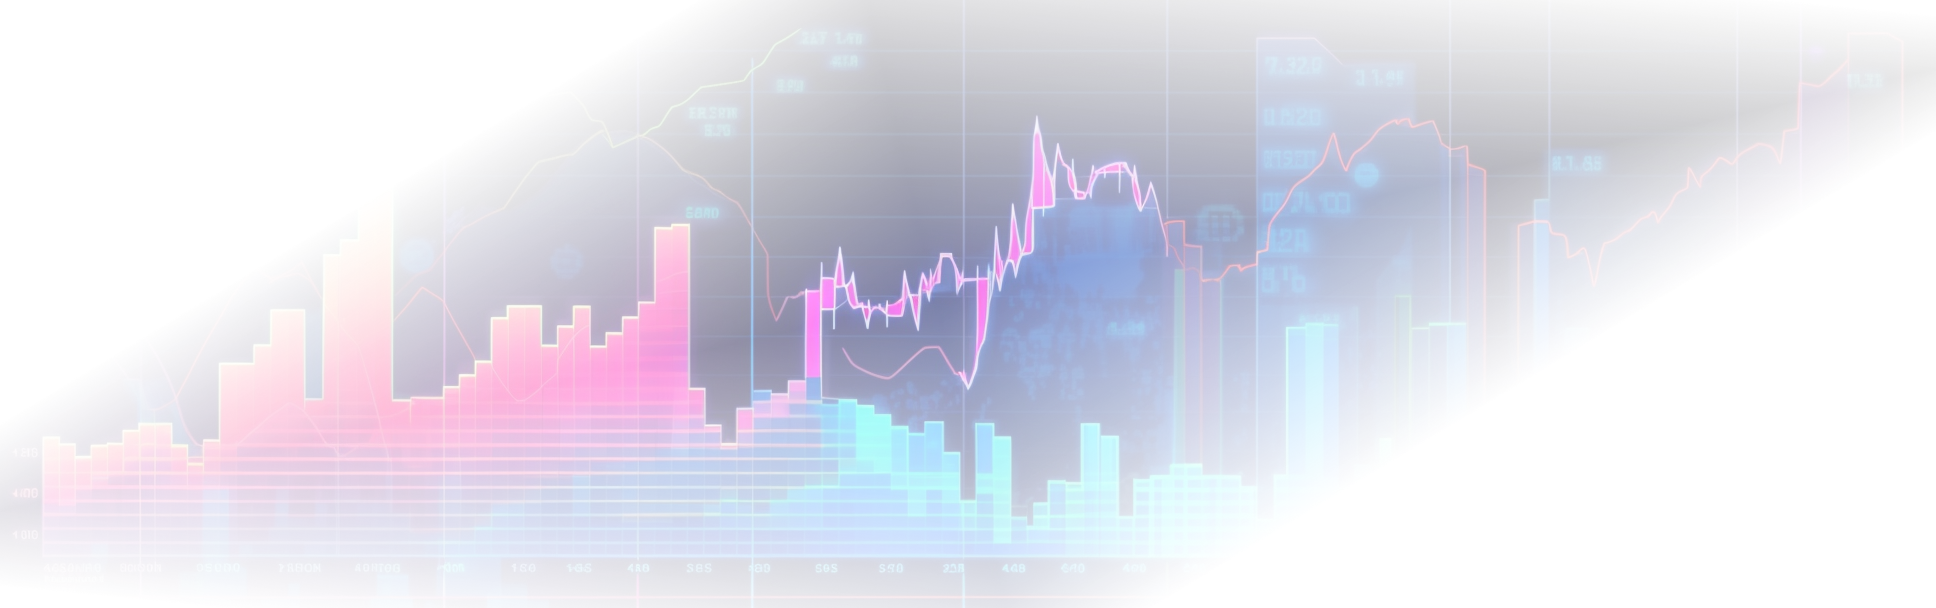
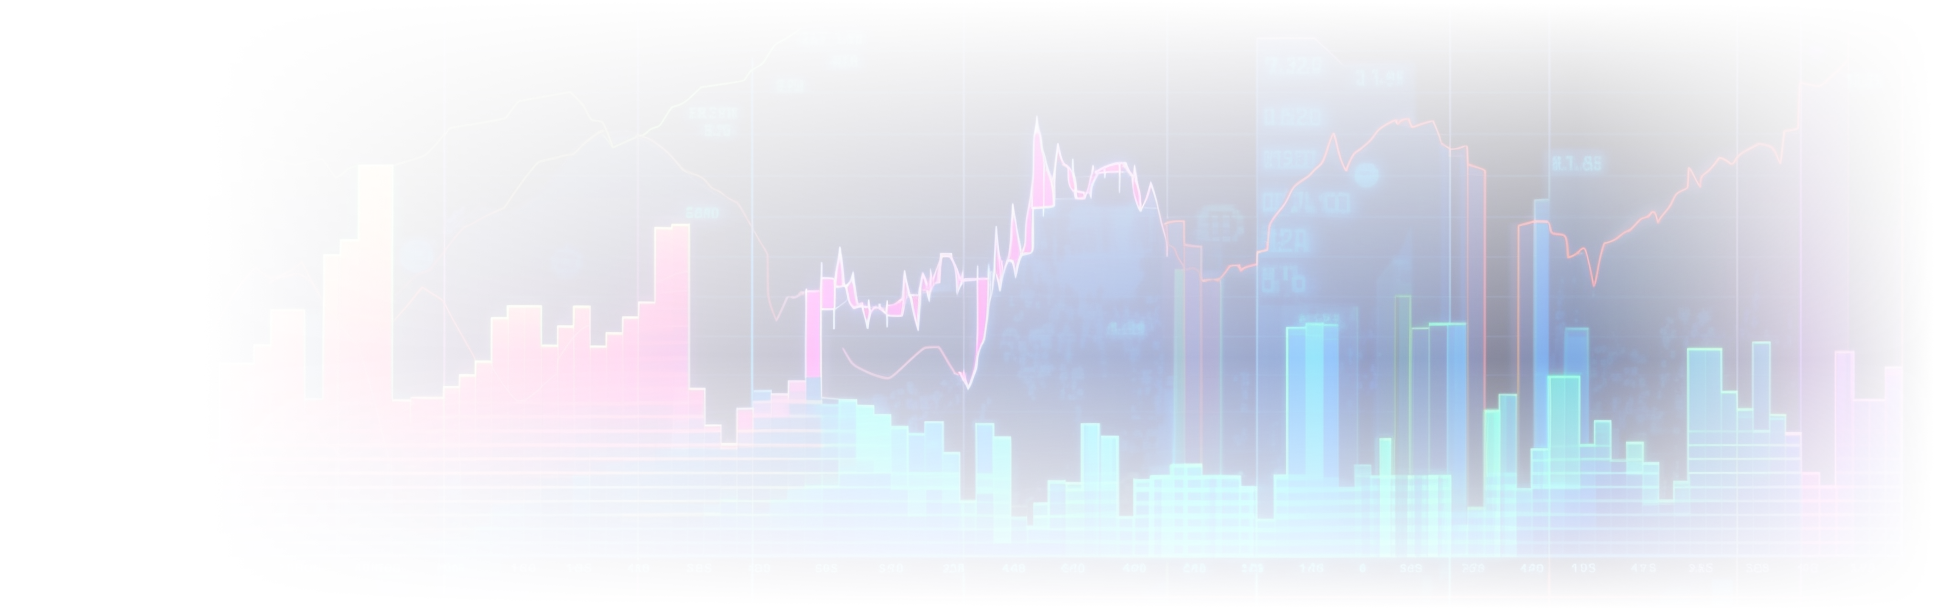
some fixes

diff --git a/index.html b/index.html
@@ -48,7 +48,7 @@
                         </div>
                     </div>
                     <div class="header_buttons">
-                        <div class="header_buttons_lang">
+                        <!-- <div class="header_buttons_lang">
                             <div class="header_buttons_lang_img">
                                 <img class="lozad" src="img/flags/usa.png" alt="">
                             </div>
@@ -58,7 +58,7 @@
                             <div class="header_buttons_lang_dd_btn">
                                 <img class="lozad header_buttons_lang_dd_btn_img" src="img/flags/arrow_down.png" alt="">
                             </div>
-                        </div>
+                        </div> -->
                         <div class="header_buttons_try_now">
                             <button class="header_buttons_try_now_btn btn">
                                 Try now
@@ -85,7 +85,7 @@
                     <div class="header_mobile_menu_element">
                         <a href="#trading" class="header_mobile_menu_element_a medium15">О нас</a>
                     </div>
-                    <div class="header_mobile_menu_element">
+                    <!-- <div class="header_mobile_menu_element header_mobile_menu_element_last">
                         <button
                             class="header_mobile_menu_element_button header_mobile_menu_element_button_active btn"><img
                                 src="img/flags/usa.png">
@@ -111,7 +111,7 @@
                                 src="img/flags/usa.png">
                             <div class="text">English</div>
                         </button>
-                    </div>
+                    </div> -->
                 </div>
             </div>
         </header>
@@ -1125,13 +1125,13 @@
             <div class="tutorial_inner">
                 <div class="tutorial_images">
                     <div class="tutorial_images_chart free_image">
-                        <img class="lozad tutorial_images_chart_img" src="img/tutorial_images/chart.webp">
-                    </div>
-                    <div class="tutorial_images_light free_image">
-                        <img class="lozad tutorial_images_chart_img" src="img/abous_us_images/el1.png">
+                        <img class="lozad tutorial_images_chart_img" src="img/tutorial_images/chart.png">
                     </div>
                     <div class="tutorial_images_waves free_image">
                         <img class="lozad tutorial_images_waves_img" src="img/tutorial_images/waves.webp">
+                    </div>
+                    <div class="tutorial_images_light free_image">
+                        <img class="lozad tutorial_images_chart_img" src="img/abous_us_images/el1.png">
                     </div>
                     <div class="tutorial_images_man free_image">
                         <img class="lozad tutorial_images_man_img" src="img/tutorial_images/man.webp">

diff --git a/sass/style.sass b/sass/style.sass
@@ -328,7 +328,7 @@ h6
                 &_active
                     background: #3763FF
 
-        &_menu_element:last-child
+        &_menu_element_last
             border-bottom: none
             border-radius: 0px 0px 24px 24px
             display: flex
@@ -552,8 +552,6 @@ h6
                 max-width: 300px
                 min-width: 160px
                 height: 48px
-                background: #3763FF
-                color: white
         &_btns_mobile_download
             margin-top: 32px
             display: flex
@@ -1262,12 +1260,16 @@ h6
             @media (max-width: 800px)
                 top: 645px
         &_light
-            top: -31px
-            left: -740px
+
+            top: -380px
+            left: -335px
+            transform: rotate(18deg)
             z-index: 0
+            opacity: 0.7
             @media (max-width: 800px)
                 top: 312px
                 left: -1282px
+                transform: rotate(0deg)
     &_header
         position: relative
         z-index: 4
@@ -1541,17 +1543,19 @@ h6
 .lb3
     overflow: hidden
     &_images
+        display: flex
+        justify-content: center
         @media (max-width: 550px)
             display: none
         &_light1
             top: 351px
-            left: -828px
+            left: -1563px
         &_light2
             top: 32px
-            left: -210px
+            left: -880px
         &_light3
             top: 113px
-            left: 928px
+            left: 28px
 
 .faq
     position: relative

diff --git a/css/style.css b/css/style.css
@@ -452,7 +452,7 @@ h6 {
 .show_mobile_menu .header_mobile_menu_element_button_active {
   background: #3763FF;
 }
-.show_mobile_menu .header_mobile_menu_element:last-child {
+.show_mobile_menu .header_mobile_menu_element_last {
   border-bottom: none;
   border-radius: 0px 0px 24px 24px;
   display: flex;
@@ -781,8 +781,6 @@ h6 {
     max-width: 300px;
     min-width: 160px;
     height: 48px;
-    background: #3763FF;
-    color: white;
   }
 }
 .usp_text_btns_mobile_download {
@@ -1857,14 +1855,17 @@ h6 {
   }
 }
 .tutorial_images_light {
-  top: -31px;
-  left: -740px;
+  top: -380px;
+  left: -335px;
+  transform: rotate(18deg);
   z-index: 0;
+  opacity: 0.7;
 }
 @media (max-width: 800px) {
   .tutorial_images_light {
     top: 312px;
     left: -1282px;
+    transform: rotate(0deg);
   }
 }
 .tutorial_header {
@@ -2255,6 +2256,10 @@ h6 {
 .lb3 {
   overflow: hidden;
 }
+.lb3_images {
+  display: flex;
+  justify-content: center;
+}
 @media (max-width: 550px) {
   .lb3_images {
     display: none;
@@ -2262,15 +2267,15 @@ h6 {
 }
 .lb3_images_light1 {
   top: 351px;
-  left: -828px;
+  left: -1563px;
 }
 .lb3_images_light2 {
   top: 32px;
-  left: -210px;
+  left: -880px;
 }
 .lb3_images_light3 {
   top: 113px;
-  left: 928px;
+  left: 28px;
 }
 
 .faq {
